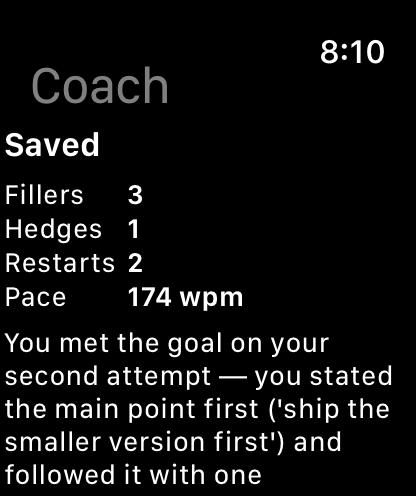
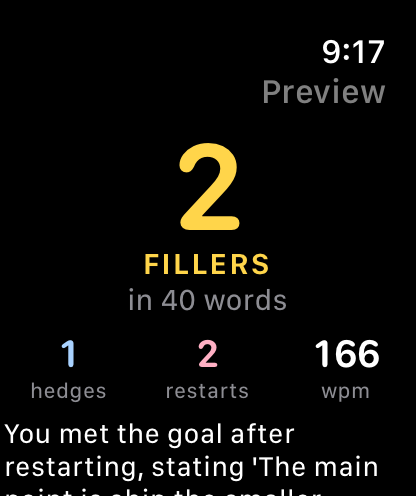
feat(site): lead with the problem and show one recorded run, labelled
The page now says who it is for and the problem before what it does,
with a marked, hidden place for a first-hand sentence. Every number,
transcript line, observation and exercise on the page comes from one
live pipeline run on a synthetic test clip (receipt 5aeff421: 40 words,
166 wpm, 2 fillers, 1 hedge, 2 restarts), labelled where it appears,
and the watch image is the app's preview screen showing that run.

The Mac companion is shown as built, with its limits: text only, on a
hotkey, redacted on the Mac, so far run on a synthetic window. The
French section is described as a sister profile in development, and
the footer and claims list say what was built during the event.

diff --git a/site/index.html b/site/index.html
@@ -4,7 +4,7 @@
   <meta charset="utf-8">
   <meta name="viewport" content="width=device-width, initial-scale=1">
   <title>Comms Coach: speaking practice on your watch, remembered by Muse</title>
-  <meta name="description" content="Tap Record on your Apple Watch and answer a question. Fillers, hedges, restarts and pace are counted from the transcript and saved to one record that Muse, Meta's assistant, reads on any device.">
+  <meta name="description" content="For practising spoken answers with the assistant you already use. Tap Record on Apple Watch and answer a question; fillers, hedges, restarts and pace are counted from the transcript and saved to one record that Muse, Meta's assistant, reads on any device.">
   <link rel="icon" href="assets/icon.svg" type="image/svg+xml">
   <link rel="preconnect" href="https://fonts.googleapis.com">
   <link rel="preconnect" href="https://fonts.gstatic.com" crossorigin>
@@ -41,8 +41,11 @@
     <section class="hero">
       <div class="wrap hero-grid">
         <div class="hero-copy">
-          <p class="eyebrow">Speaking practice for Apple Watch and Muse</p>
+          <p class="eyebrow">For practising how you answer out loud</p>
           <h1>Practise a spoken answer on your watch. Muse remembers it on every device.</h1>
+          <p class="lead lead-problem">When practice lives in its own app, the assistant you ask for help never sees it, so every new chat starts from nothing.</p>
+          <!-- FOUNDER: one or two sentences in your own words -->
+          <p class="founder" data-founder hidden></p>
           <p class="lead">Tap Record on your Apple Watch and answer a question out loud. Your
             <mark class="hl hl-filler">fillers</mark>, <mark class="hl hl-hedge">hedges</mark>,
             <mark class="hl hl-restart">restarts</mark> and pace are counted from the transcript and saved to one record.
@@ -56,16 +59,17 @@
           <div class="stage-ground">
             <div class="watch watch-hero">
               <div class="watch-case">
-                <img src="assets/watch-done.png" width="416" height="496" alt="Watch app after a capture: Saved, 3 fillers, 1 hedge, 2 restarts, pace 174 words per minute, and the start of the coaching observation">
+                <img src="assets/watch-done.png" width="416" height="496" alt="Watch app result screen in preview mode, showing the numbers from one live pipeline run: 2 fillers in 40 words, 1 hedge, 2 restarts, 166 words per minute, and the start of the coaching observation">
               </div>
               <span class="watch-crown" aria-hidden="true"></span>
             </div>
           </div>
           <div class="slip">
-            <p class="slip-head"><span class="rec-dot" aria-hidden="true"></span>Transcript, first 6 seconds</p>
-            <p class="transcript" data-sweep><mark class="hl hl-filler">Um</mark>, so <mark class="hl hl-hedge">I think</mark> the main point is, <mark class="hl hl-filler">uh</mark>, <mark class="hl hl-filler">basically</mark> that we should ship the smaller version first.</p>
+            <p class="slip-head"><span class="rec-dot" aria-hidden="true"></span>Transcript, first sentence</p>
+            <p class="transcript" data-sweep><mark class="hl hl-filler">Um</mark>, so <mark class="hl hl-hedge">I think</mark> the main point is <mark class="hl hl-filler">basically</mark> that we should ship the smaller version first.</p>
+            <p class="source">Live pipeline run · synthetic test clip · receipt 5aeff421</p>
           </div>
-          <figcaption class="visually-hidden">The watch app's result screen after one capture, and the start of its transcript with fillers and a hedge highlighted.</figcaption>
+          <figcaption class="visually-hidden">The watch app's result screen in preview mode with the numbers of one live pipeline run on a synthetic test clip (receipt 5aeff421), and the start of its transcript with fillers and a hedge highlighted.</figcaption>
         </figure>
       </div>
     </section>
@@ -82,7 +86,7 @@
           <li class="step">
             <p class="step-n"><span class="dot" aria-hidden="true"></span>Step 1 of 4</p>
             <h3>Record on the watch</h3>
-            <p class="step-text">Pick a goal, tap Record, answer, tap Stop. Up to three minutes.</p>
+            <p class="step-text">Pick a goal, tap Record, answer, tap Stop. At 2:50 it stops and sends by itself.</p>
             <div class="step-art step-art-watch">
               <div class="watch watch-small"><div class="watch-case"><img src="assets/watch-recording.png" width="416" height="496" alt="Watch app recording, with a timer and a Stop button" loading="lazy"></div><span class="watch-crown" aria-hidden="true"></span></div>
             </div>
@@ -90,9 +94,9 @@
           <li class="step">
             <p class="step-n"><span class="dot" aria-hidden="true"></span>Step 2 of 4</p>
             <h3>Transcribed by Meta</h3>
-            <p class="step-text">Meta's speech-to-text model keeps the “um” and “uh” that most transcripts clean up.</p>
+            <p class="step-text">Meta's speech-to-text model returns fillers such as “um” as words, so code can count them. It can still drop one.</p>
             <div class="step-art">
-              <p class="frag">Um, so I think the main point is, uh, basically that we should ship the smaller version first.</p>
+              <p class="frag">Um, so I think the main point is basically that we should ship the smaller version first.</p>
               <p class="model">muse-voice-transcribe-1.0</p>
             </div>
           </li>
@@ -102,10 +106,10 @@
             <p class="step-text">A fixed word list, in English or French, counts each habit. No model touches the numbers.</p>
             <div class="step-art">
               <ul class="chips" aria-label="Counts for the whole capture">
-                <li class="chip chip-filler">3 fillers</li>
+                <li class="chip chip-filler">2 fillers</li>
                 <li class="chip chip-hedge">1 hedge</li>
                 <li class="chip chip-restart">2 restarts</li>
-                <li class="chip">174 wpm</li>
+                <li class="chip">166 wpm</li>
               </ul>
             </div>
           </li>
@@ -114,7 +118,7 @@
             <h3>One exercise</h3>
             <p class="step-text">Muse Spark Open reads the transcript and your goal, then writes one observation and one exercise.</p>
             <div class="step-art">
-              <p class="frag frag-sans">Next time, answer in one take: “The main point is…”, then “because…”. Skip “I think” and “basically”.</p>
+              <p class="frag frag-sans">“60-second reset drill (under 2 minutes): Record yourself 3 times saying only ‘The main point is ship the smaller version first because it lets us test with real users this week’ — no fillers or hedges, pause 5 seconds between takes.”</p>
               <p class="model">muse-spark-open-1026 on Baseten</p>
             </div>
           </li>
@@ -127,32 +131,32 @@
       <div class="wrap measured-grid">
         <div class="measured-copy">
           <h2 id="measured-title">What one 14-second answer shows</h2>
+          <p class="source">Live pipeline run · synthetic test clip · receipt 5aeff421, Nov 1, 2026. A computer voice read a script; the hosted service did the rest.</p>
           <p class="transcript transcript-lg" data-sweep>
-            <mark class="hl hl-filler">Um</mark>, so <mark class="hl hl-hedge">I think</mark> the main point is, <mark class="hl hl-filler">uh</mark>, <mark class="hl hl-filler">basically</mark> that we should ship the smaller version first. <mark class="hl hl-restart">Sorry</mark>, <mark class="hl hl-restart">let me restart</mark>. The main point is ship the smaller version first because it lets us test with real users <span class="rep">users</span> this week.
+            <mark class="hl hl-filler">Um</mark>, so <mark class="hl hl-hedge">I think</mark> the main point is <mark class="hl hl-filler">basically</mark> that we should ship the smaller version first. <mark class="hl hl-restart">Sorry</mark>, <mark class="hl hl-restart">let me restart</mark>. The main point is ship the smaller version first because it lets us test with real users this week
           </p>
           <ul class="legend" aria-label="Highlight colours">
             <li><span class="sw sw-filler" aria-hidden="true"></span>Filler</li>
             <li><span class="sw sw-hedge" aria-hidden="true"></span>Hedge</li>
             <li><span class="sw sw-restart" aria-hidden="true"></span>Restart</li>
-            <li><span class="rep">Repeated word</span></li>
           </ul>
           <figure class="note-margin">
             <figcaption>Observation from Muse Spark Open</figcaption>
-            <blockquote><p>“You met the goal on your second attempt: you stated the main point first (‘ship the smaller version first’) and followed it with one supporting detail. The first attempt was hedged with fillers and led to a restart before you delivered the clean version.”</p></blockquote>
+            <blockquote><p>“You met the goal after restarting, stating ‘The main point is ship the smaller version first’ followed by one supporting detail ‘it lets us test with real users this week’.”</p></blockquote>
           </figure>
         </div>
 
         <div class="tally" role="group" aria-label="Measured counts">
           <div class="tally-pace">
-            <span class="tally-num">174</span>
+            <span class="tally-num">166</span>
             <span class="tally-label">words per minute</span>
           </div>
           <div class="tally-row">
-            <div><span class="tally-num tally-sm">3</span><span class="tally-label"><mark class="hl hl-filler">fillers</mark> 7.1 per 100 words</span></div>
+            <div><span class="tally-num tally-sm">2</span><span class="tally-label"><mark class="hl hl-filler">fillers</mark> 5 per 100 words</span></div>
             <div><span class="tally-num tally-sm">1</span><span class="tally-label"><mark class="hl hl-hedge">hedge</mark></span></div>
             <div><span class="tally-num tally-sm">2</span><span class="tally-label"><mark class="hl hl-restart">restarts</mark></span></div>
           </div>
-          <p class="tally-note">Counted from the transcript with a fixed English word list. The model writes the observation; it never supplies a number.</p>
+          <p class="tally-note">Counted from the transcript with a fixed English word list, so “Sorry, let me restart” counts as two restarts. The model writes the observation; it never supplies a number.</p>
         </div>
       </div>
     </section>
@@ -162,7 +166,7 @@
       <div class="wrap">
         <div class="section-head">
           <h2 id="devices-title">Your watch records it. Muse reads it on any device.</h2>
-          <p>The watch keeps nothing of its own. Goals, sessions and exercises live in one record, and every device reads the latest version of it.</p>
+          <p>The watch and the Mac keep nothing of their own. Goals, sessions and exercises live in one record, and every device reads the latest version of it.</p>
         </div>
 
         <div class="lineup" role="list">
@@ -177,7 +181,7 @@
                 <p class="screen-label">Muse chat, example</p>
                 <p class="bub bub-you">How did my last practice go?</p>
                 <div class="bub bub-muse">
-                  <p>Your watch capture for “Answer clearly” had 3 <mark class="hl hl-filler">fillers</mark>, 1 <mark class="hl hl-hedge">hedge</mark> and 2 <mark class="hl hl-restart">restarts</mark> at 174 wpm. On the second try you put the main point first.</p>
+                  <p>Your last capture for “Answer clearly” had 2 <mark class="hl hl-filler">fillers</mark>, 1 <mark class="hl hl-hedge">hedge</mark> and 2 <mark class="hl hl-restart">restarts</mark> at 166 wpm. After the restart you put the main point first.</p>
                 </div>
                 <p class="bub bub-you bub-extra">What should I practise next?</p>
                 <div class="bub bub-muse bub-extra">
@@ -203,7 +207,7 @@
             <figcaption><strong>Muse on the web</strong> runs a scheduled check and suggests one exercise.</figcaption>
           </figure>
         </div>
-        <p class="planned"><span class="planned-tag">Planned</span> A Mac app for on-screen and meeting capture into the same record.</p>
+        <p class="planned"><span class="planned-tag">Mac companion</span> Press ⌃⌥Space and it reads the text of the window in front, redacts names, emails, phone numbers and addresses on the Mac (it can miss some), and saves a short context card to the same record. Text only, no audio or pixels, and the text itself is not stored. So far run on a synthetic test window.</p>
       </div>
     </section>
 
@@ -212,8 +216,8 @@
       <div class="wrap statement-grid">
         <p class="statement-line">Most new tools give you another assistant. Comms Coach gives the assistant you already use a memory of how you speak, on every device.</p>
         <dl class="attempts" aria-label="The same answer, first and second attempt">
-          <div><dt>First attempt</dt><dd class="transcript"><mark class="hl hl-filler">Um</mark>, so <mark class="hl hl-hedge">I think</mark> the main point is, <mark class="hl hl-filler">uh</mark>, <mark class="hl hl-filler">basically</mark> that we should ship the smaller version first.</dd></div>
-          <div><dt>Second attempt</dt><dd class="transcript">The main point is ship the smaller version first because it lets us test with real users this week.</dd></div>
+          <div><dt>First attempt</dt><dd class="transcript"><mark class="hl hl-filler">Um</mark>, so <mark class="hl hl-hedge">I think</mark> the main point is <mark class="hl hl-filler">basically</mark> that we should ship the smaller version first.</dd></div>
+          <div><dt>Second attempt</dt><dd class="transcript">The main point is ship the smaller version first because it lets us test with real users this week</dd></div>
         </dl>
       </div>
     </section>
@@ -228,7 +232,8 @@
           <div><dt>Not claimed</dt><dd>Improvement over time. One session can't show change, so that field stays empty until there is a method to compare sessions.</dd></div>
           <div><dt>Your audio</dt><dd>Uploaded once, transcribed, then discarded. The record keeps the transcript, the counts and a fingerprint of the file.</dd></div>
           <div><dt>Your record</dt><dd>Muse writes only when you ask. Every write returns a receipt, edits are versioned, and a correction shows up on every device.</dd></div>
-          <div><dt>This page's example</dt><dd>A scripted test clip run through the live pipeline, on a test account with no personal data.</dd></div>
+          <div><dt>This page's example</dt><dd>One live pipeline run on Nov 1, 2026 (receipt 5aeff421): a computer voice read a script, uploaded to the hosted service on a test account with no personal data. The watch screen shows that run's numbers in the app's preview mode; the phone chat is an example.</dd></div>
+          <div><dt>Built during the event</dt><dd>Oct 30 – Nov 4, 2026: the API and its hosting on Oct 30, the watch capture loop, the eval and this page on Nov 1, and the Mac companion overnight into Nov 2.</dd></div>
         </dl>
       </div>
     </section>
@@ -237,7 +242,7 @@
     <section class="french" id="french" aria-labelledby="french-title">
       <div class="wrap french-grid">
         <div>
-          <p class="eyebrow">Same record, second profile. In development.</p>
+          <p class="eyebrow">A sister profile on the same core. In development.</p>
           <h2 id="french-title">French speaking practice</h2>
           <p>A short spoken debrief in French becomes a few phrases worth fixing. You confirm each one, repair it, and reuse it later on a new prompt. Confirmed phrases export to Anki. The learner sets the target level; nothing here measures or claims one.</p>
         </div>
@@ -261,7 +266,7 @@
   <footer class="foot">
     <div class="wrap foot-row">
       <p class="foot-brand">Comms Coach</p>
-      <p class="foot-note">Built for the Meta AI Developer Hackathon, November 2026. Speech-to-text by Meta <span class="mono">muse-voice-transcribe-1.0</span>; observations by <span class="mono">muse-spark-open-1026</span>; read through Muse.</p>
+      <p class="foot-note">Built during the Meta AI Developer Hackathon, Oct 30 – Nov 4, 2026. Speech-to-text by Meta <span class="mono">muse-voice-transcribe-1.0</span>; observations by <span class="mono">muse-spark-open-1026</span>; read through Muse.</p>
       <nav aria-label="Footer">
         <a href="#how">How it works</a>
         <a href="#measured">What it measures</a>

diff --git a/site/styles.css b/site/styles.css
@@ -116,6 +116,11 @@ section[id] { scroll-margin-top: 72px; }
 .hero h1 { font-size: clamp(2.4rem, 4.2vw, 3.75rem); font-weight: 700; letter-spacing: -0.025em; max-width: 17ch; }
 .lead { font-size: var(--t-lg); line-height: 1.55; color: var(--ink-2); margin-top: var(--s-5); max-width: 36rem; }
 .actions { display: flex; flex-wrap: wrap; gap: var(--s-3); margin-top: var(--s-6); }
+.lead-problem { color: var(--ink); }
+.lead-problem ~ .lead { margin-top: var(--s-3); }
+/* Where an example's numbers come from */
+.source { font-family: var(--f-tape); font-size: var(--t-xs); color: var(--muted); margin-top: var(--s-2); }
+.measured-copy h2 + .source { margin: var(--s-2) 0 var(--s-4); }
 
 .hero-stage { position: relative; }
 .stage-ground { display: flex; justify-content: center; align-items: center; padding: 0 0 var(--s-6); }
@@ -201,7 +206,7 @@ section[id] { scroll-margin-top: 72px; }
 .task-why { font-size: var(--t-xs); color: var(--muted); margin-top: var(--s-3); }
 
 .planned { margin-top: var(--s-5); font-size: var(--t-sm); color: var(--ink-2); display: flex; align-items: center; gap: var(--s-3); }
-.planned-tag { font-size: var(--t-xs); font-weight: 600; border: 1px solid var(--ink-2); border-radius: 4px; padding: 2px 8px; }
+.planned-tag { white-space: nowrap; font-size: var(--t-xs); font-weight: 600; border: 1px solid var(--ink-2); border-radius: 4px; padding: 2px 8px; }
 
 /* Statement */
 .statement { background: var(--ink); color: var(--on-dark); padding: var(--s-9) 0; }
@@ -271,6 +276,8 @@ section[id] { scroll-margin-top: 72px; }
   .hero h1 { order: 2; font-size: 2.25rem; }
   .hero-stage { order: 3; margin: var(--s-6) 0 var(--s-6); }
   .lead { order: 4; font-size: var(--t-md); }
+  .lead-problem { order: 2; margin-top: var(--s-4); }
+  .planned { flex-direction: column; align-items: flex-start; gap: var(--s-2); }
   .actions { order: 5; }
   .watch-hero .watch-case { width: 220px; border-width: 10px; }
   .watch-hero .watch-crown { right: -13px; width: 8px; height: 40px; }
